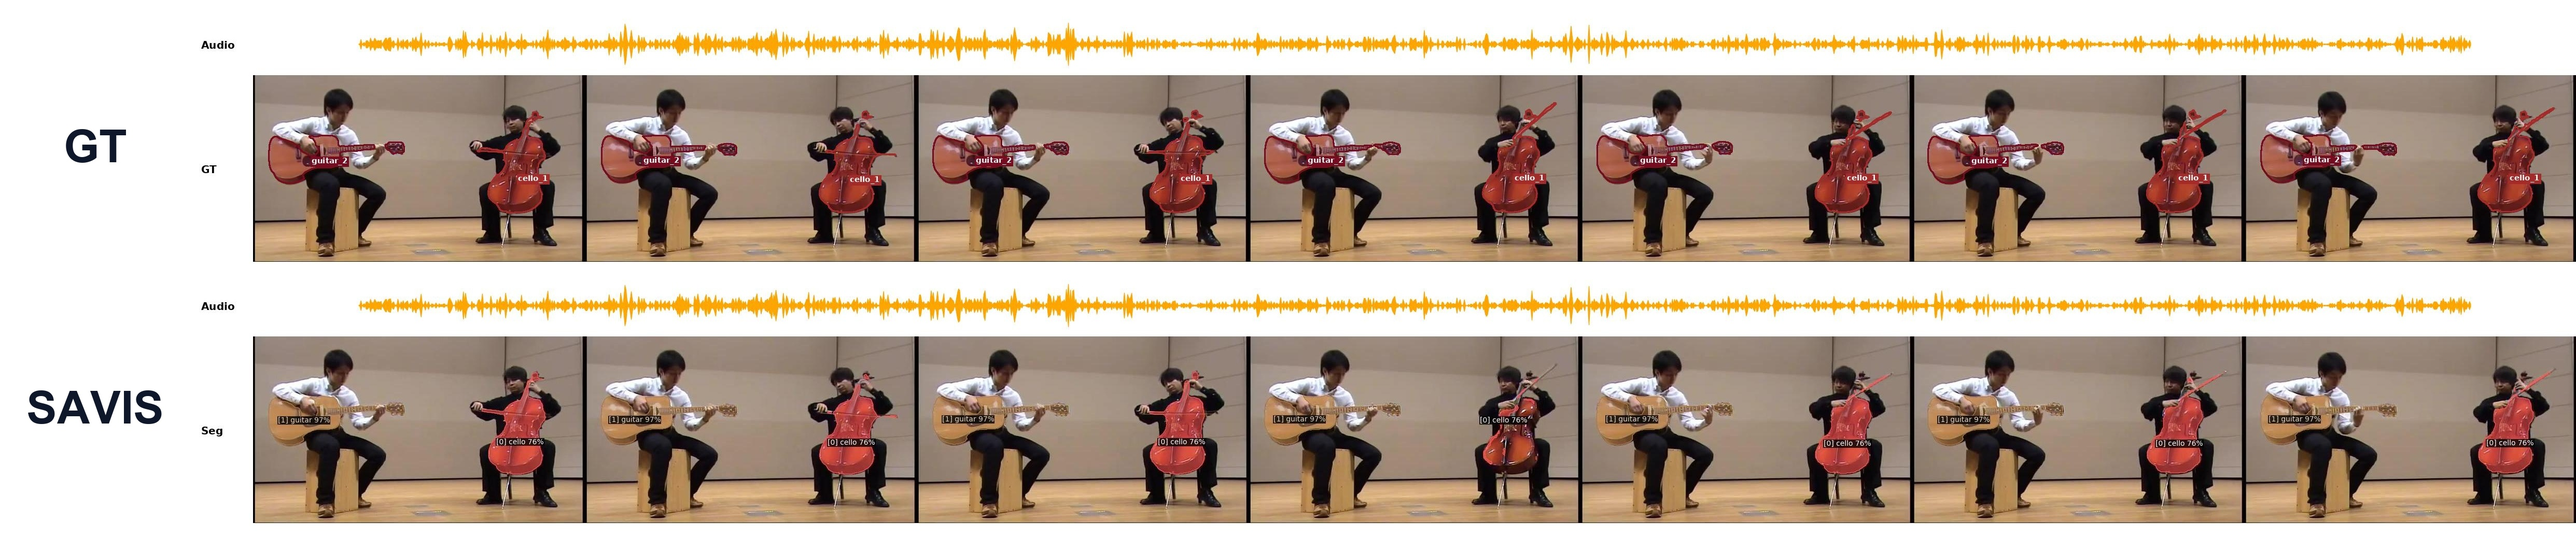
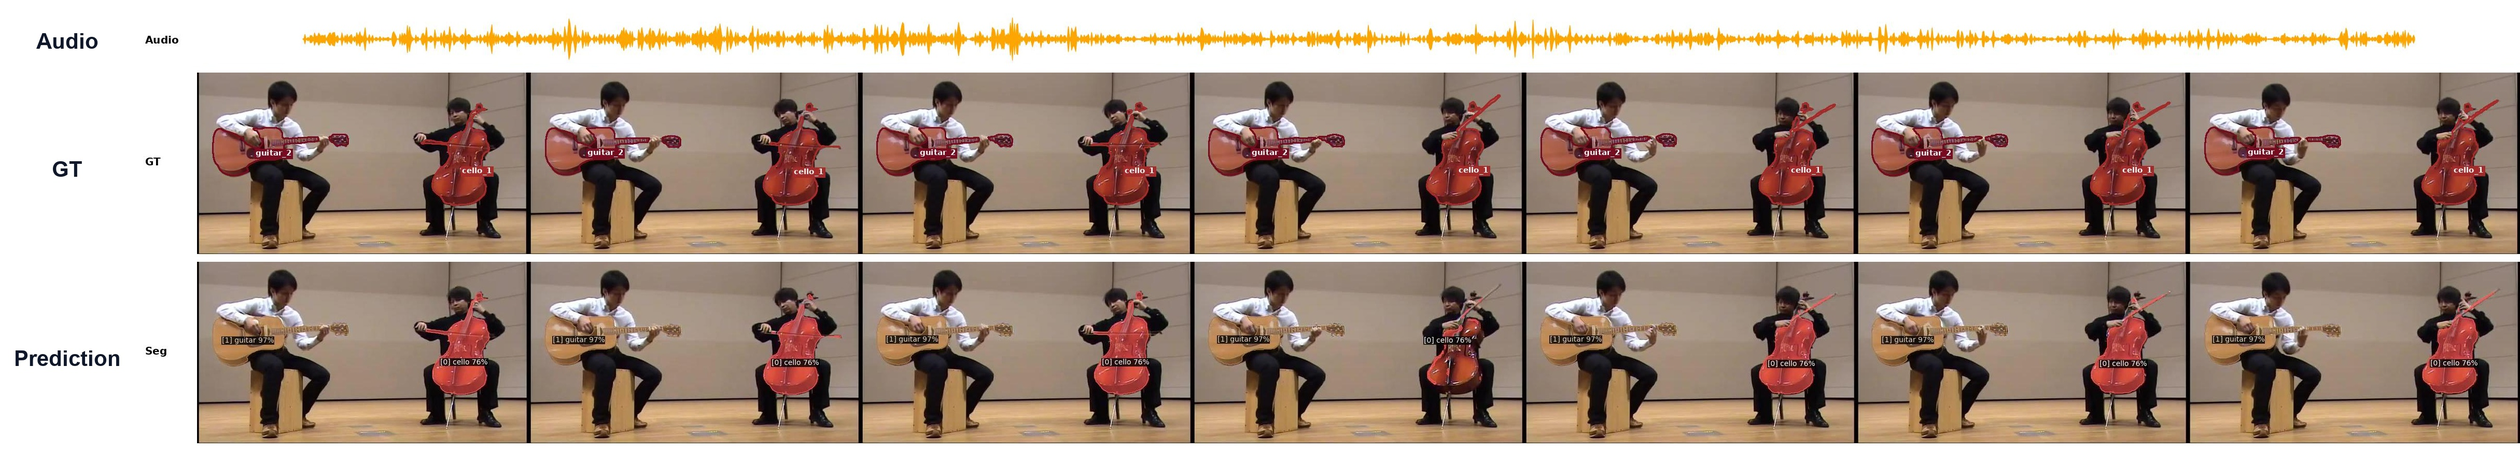
refactor(docs): update sequence labels to Audio, GT, and Prediction with consistent proportional typography

diff --git a/docs/index.html b/docs/index.html
@@ -119,7 +119,7 @@
           <img src="images/speaking_paper_result.jpg" alt="SAVIS Audio-Visual Instance Segmentation Teaser" class="teaser-img zoomable-img">
         </div>
         <div class="teaser-caption">
-          <strong>Figure 1: Audio-Visual Instance Discrimination Over Time.</strong> Synchronized audio waveform (top), Ground Truth (middle), and SAVIS prediction (bottom). When multiple individuals share the scene, SAVIS selectively localizes and tracks only the vocalizing speaker over time while keeping silent individuals unmasked.
+          <strong>Figure 1: Audio-Visual Instance Discrimination Over Time.</strong> Synchronized audio waveform (top), Ground Truth (middle), and Prediction (bottom). When multiple individuals share the scene, SAVIS selectively localizes and tracks only the vocalizing speaker over time while keeping silent individuals unmasked.
         </div>
       </div>
     </div>
